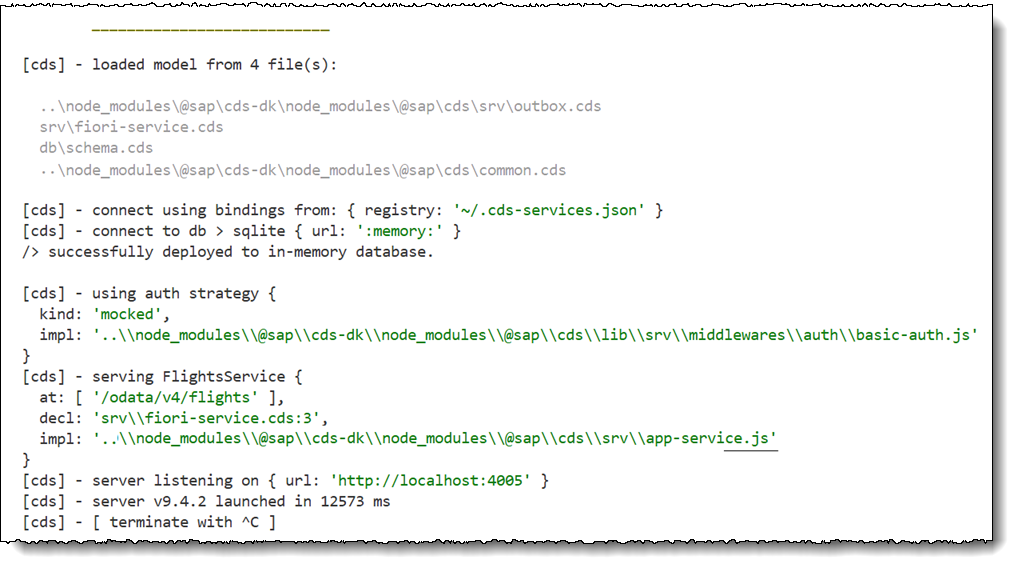
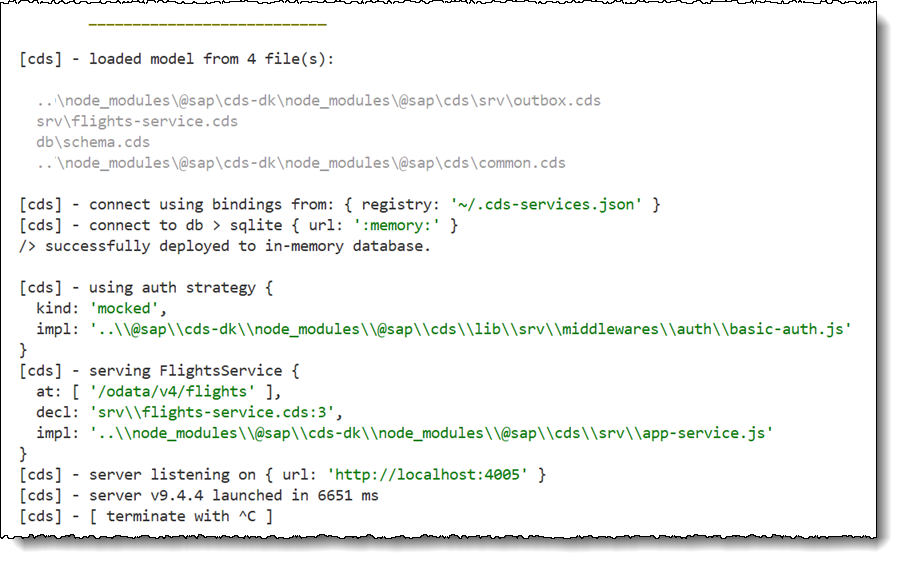
upd ex1

Changed region(s): [[0.0, 0.0, 0.9922, 0.9894], [0.0, 0.0899, 0.7132, 0.4497], [0.0, 0.5996, 0.8682, 0.8095]]

diff --git a/exercises/ex1/README.md b/exercises/ex1/README.md
@@ -83,27 +83,6 @@ the still running cds watch reacts immediately with new output like this:
 In that case, simply press Enter within the log output, or stop it via `Ctrl+C` and restart it.
 
 <!--
-    ```
-    [cds] - loaded model from 3 file(s):
-
-      ..\<path>\node_modules\@sap\cds\srv\outbox.cds
-      db\schema.cds
-      ..\<path>\node_modules\@sap\cds\common.cds
-
-    [cds] - connect using bindings from: { registry: '~/.cds-services.json' }
-    [cds] - connect to db > sqlite { url: ':memory:' }
-    /> successfully deployed to in-memory database. 
-
-    [cds] - server listening on { url: 'http://localhost:4005' }
-    [cds] - server v9.3.1 launched in 784 ms
-    [cds] - [ terminate with ^C ]
-
-        No service definitions found in loaded models.
-        Waiting for some to arrive...
-    ```
--->
-
-<!--
 Error: The module '\\?\C:\SAPDevelop\node\cap\DEV\cds-dk\node_modules\better-sqlite3\build\Release\better_sqlite3.node'
 was compiled against a different Node.js version using
 NODE_MODULE_VERSION 108. This version of Node.js requires
@@ -143,34 +122,6 @@ to a full fledged maintenance UI for the xflights app, but this is not part of t
 
     Service `FlightsService` is now served as OData service.
 
-<!--
-    ```
-    [cds] - loaded model from 4 file(s):
-
-      ..\<path>\node_modules\@sap\cds\srv\outbox.cds
-      srv\flights-service.cds
-      db\schema.cds
-      ..\<path>\node_modules\@sap\cds\common.cds
-
-    [cds] - connect using bindings from: { registry: '~/.cds-services.json' }
-    [cds] - connect to db > sqlite { url: ':memory:' }
-    /> successfully deployed to in-memory database.
-
-    [cds] - using auth strategy {
-      kind: 'mocked',
-      impl: '..\\<path>\\node_modules\\@sap\\cds\\lib\\srv\\middlewares\\auth\\basic-auth.js'
-    }
-    [cds] - serving FlightsService {
-      at: [ '/odata/v4/flights' ],
-      decl: 'srv\\flights-service.cds:3',
-      impl: '..\\<path>\\node_modules\\@sap\\cds\\srv\\app-service.js'
-    }
-    [cds] - server listening on { url: 'http://localhost:4005' }
-    [cds] - server v9.3.1 launched in 6595 ms
-    [cds] - [ terminate with ^C ]
-    ```
--->
-
 4. Open the automatically served index page in your browser at [localhost:4005](http://localhost:4005/).
 The entities are exposed via OData.
 
@@ -196,21 +147,6 @@ The result should look like this:
 2. Observe the console output: `cds watch` automatically restarts and detects the data files:
 
     <br>![](/exercises/ex1/images/01_04_0020.png)
-
-<!--
-    ```
-    [cds] - connect using bindings from: { registry: '~/.cds-services.json' }
-    [cds] - connect to db > sqlite { url: ':memory:' }
-      > init from db\data\sap.capire.flights-SupplementTypes.csv 
-      > init from db\data\sap.capire.flights-Supplements.texts.csv 
-      > init from db\data\sap.capire.flights-Supplements.csv 
-      > init from db\data\sap.capire.flights-Flights.csv 
-      > init from db\data\sap.capire.flights-Connections.csv 
-      > init from db\data\sap.capire.flights-Airports.csv 
-      > init from db\data\sap.capire.flights-Airlines.csv 
-    /> successfully deployed to in-memory database.
-    ```
--->
 
 3. Go back to the index page [localhost:4005](http://localhost:4005/) and click on any of the entities to see the new content.
 
@@ -353,16 +289,20 @@ that acts as an API to retrieve some data from the xflights app.
     list of flights and doesn't need to be bothered with the fact that in xflights
     the data is separated in two entities ("use-case oriented service").
 
+    As this service is intended to be imported in other apps, we have chosen
+    a longer name that indicates, where it comes from.
+
     The service has some annotations that control how the data of the entities
     is made available: via OData, via plain rest, and via the CAP specific `hcql` protocol
     (which basically is the transport of [CQL](https://cap.cloud.sap/docs/cds/cql) - an extension of SQL that adds support for path expressions - over HTTP).
 
-    > [!TIP]
-    > Annotations `@hcql`, `@rest`, and `@odata` are shortcuts for the corresponding
-    [`@protocol`](https://cap.cloud.sap/docs/node.js/cds-serve#protocol) annotation.
+> [!TIP]
+> Annotations `@hcql`, `@rest`, and `@odata` are shortcuts for the corresponding
+[`@protocol`](https://cap.cloud.sap/docs/node.js/cds-serve#protocol) annotation.
 
 3. `cds watch` automatically picks up the new service. In the browser, go back to the index page
-on [localhost:4005](http://localhost:4005/) and see the new service being presented via these protocols.
+on [localhost:4005](http://localhost:4005/) and see the new service being presented via these protocols
+(you may need to refresh the page).
 
     <br>![](/exercises/ex1/images/01_07_0010-60.png)
 
@@ -394,7 +334,7 @@ This package contains everything that is needed in a consuming app, including so
     ```
     This creates the API package as folder _apis/flights-data_ directly in our workspace folder.
     Usually you would publish the API package, e.g. via npm or github. For our session it
-    is sufficient to have it inside the workspaces folder.
+    is sufficient to have it inside the workspace folder.
 
 3. Add these lines to the end of the generated file _apis/flights-data/index.cds_:
     ```cds

diff --git a/exercises/ex0/README.md b/exercises/ex0/README.md
@@ -2,7 +2,7 @@
 
 In this session, you will create two CAP applications. The apps are developed locally
 using Visual Studio Code and the [_cds toolkit_](https://cap.cloud.sap/docs/tools/cds-cli).
-In this preparation section you install the _cds toolkit_ and set up the local workspace
+In this preparation section, you install the _cds toolkit_ and set up the local workspace
 where you develop the apps.
 
 In this document, `XX` is the number that has been assigned to you for this session.
@@ -24,11 +24,7 @@ In this document, `XX` is the number that has been assigned to you for this sess
     ```sh
     cds v
     ```
-    You should have version `9.4.x` of `@sap/cds` and `@sap/cds-dk`.
-
-<!--
-You may need to add `C:\Users\TE-XX\AppData\Roaming\npm` to the `PATH` environment variable.
--->
+    You should have version `9.4.4` of `@sap/cds` and version `9.4.3` of `@sap/cds-dk`.
 
 
 

diff --git a/README.md b/README.md
@@ -55,7 +55,7 @@ established in the first part of the session.
 
 ## Requirements
 
-The instructors will assign a user and a password to you. This will only be needed in exercise 4 to deploy to SAP HANA Cloud.
+The instructors will assign a user and a password to you. They will only be needed in exercise 4 to deploy to SAP HANA Cloud.
 The user is of the form `capworkshopuser+0XX@gmail.com`, where XX is a unique number that is assigned to you.
 
 ## Exercises
